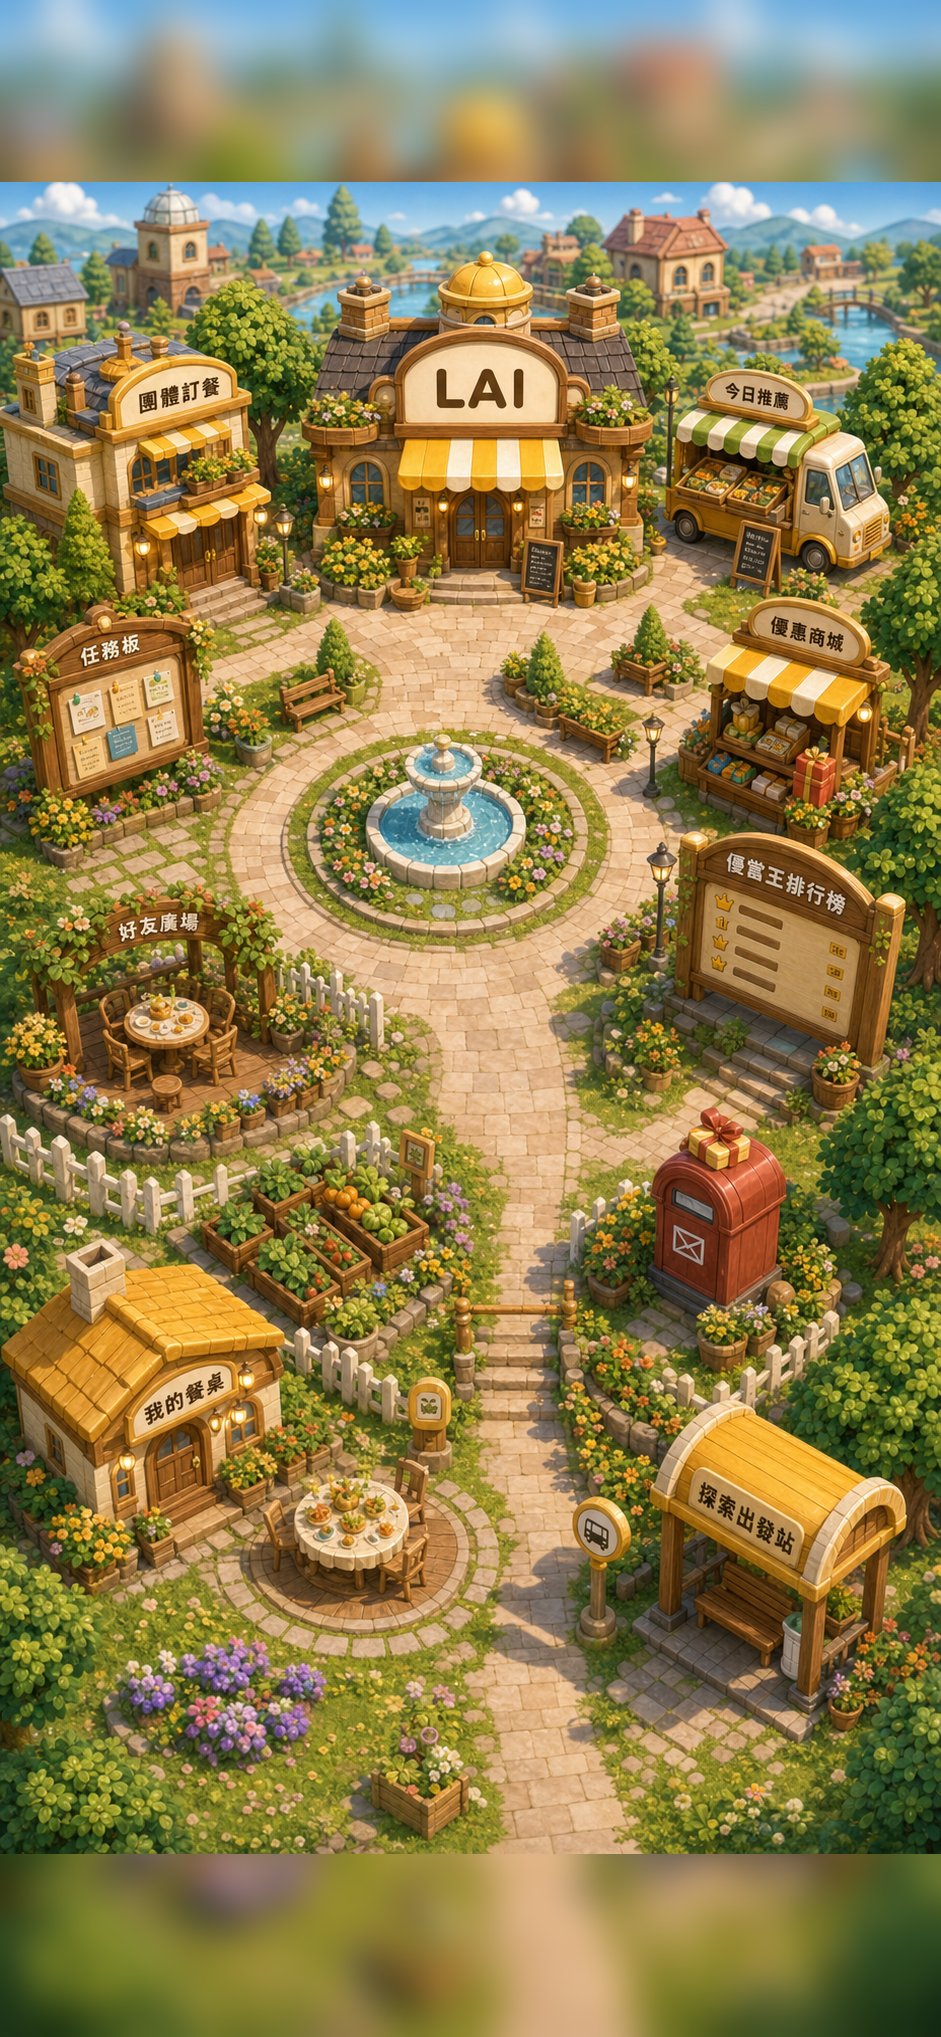
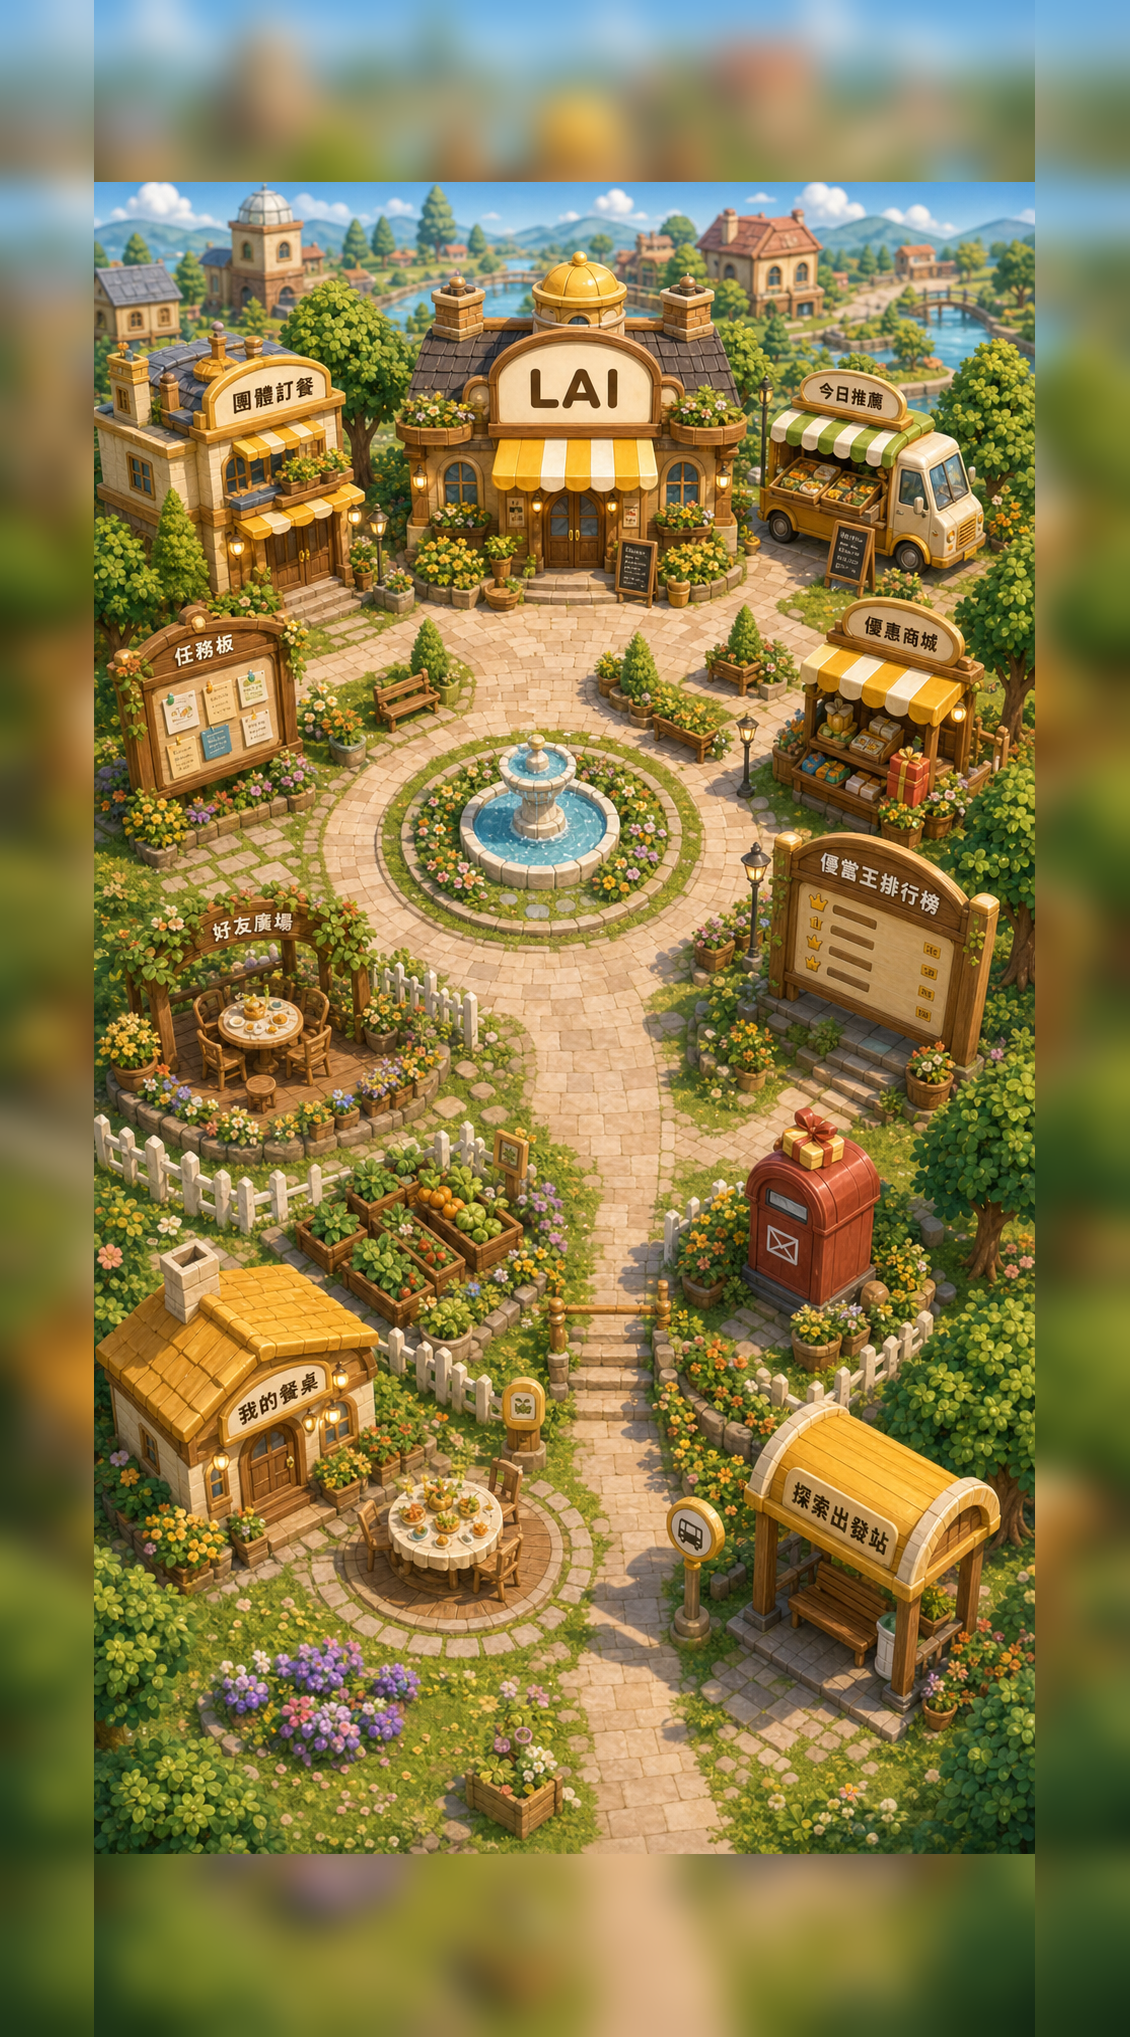
Fill mobile viewport with widened town map

diff --git a/website/life-phaser-game.js b/website/life-phaser-game.js
@@ -9,7 +9,7 @@
     const openModal = options.openModal;
     const updateHint = options.updateHint;
     const toast = options.toast;
-    const world = { width: 941, height: 2037 };
+    const world = { width: 1130, height: 2037 };
 
     class LaiTownScene extends Phaser.Scene {
       constructor() {
@@ -56,7 +56,7 @@
         const isTablet = width <= 1100;
         const fullMapZoom = Math.min(width / world.width, height / world.height);
         const coverZoom = Math.max(width / world.width, height / world.height) * 1.02;
-        const zoom = isPortraitPhone ? fullMapZoom : isTablet ? Math.max(coverZoom, 0.46) : 0.72;
+        const zoom = isPortraitPhone ? coverZoom : isTablet ? Math.max(coverZoom, 0.46) : 0.72;
         this.cameras.main.setZoom(zoom);
         this.cameras.main.setLerp(isPortraitPhone ? 0.08 : 0.12, isPortraitPhone ? 0.08 : 0.12);
         this.cameras.main.centerOn(this.player.x, this.player.y);
@@ -66,17 +66,17 @@
         const bg = this.add.image(world.width / 2, world.height / 2, "townBg");
         bg.setDisplaySize(world.width, world.height).setAlpha(1);
 
-        this.addZoneObstacle(392, 880, 160, 118, "噴水池", 0x78b7c7, "circle");
-        this.addBuilding(310, 365, 320, 210, "LAI 便當", 0xfff3d6, 0xffc84f);
-        this.addBuilding(690, 360, 180, 150, "便當餐車", 0xfff8da, 0x7fb86f);
-        this.addBuilding(260, 1240, 220, 210, "小菜園", 0xf3e2bd, 0x7fb86f);
-        this.addBuilding(26, 650, 170, 170, "任務看板", 0xfff8da, 0xb87945);
-        this.addBuilding(680, 910, 220, 205, "排行榜", 0xfff8da, 0xffc84f);
-        this.addBuilding(685, 1218, 130, 160, "禮物郵箱", 0xf06a55, 0xffc84f);
-        this.addBuilding(690, 690, 190, 160, "商城攤位", 0xfff8da, 0xb87945);
-        this.addBuilding(60, 1420, 220, 210, "我的餐桌", 0xfff8da, 0x8b6f3c);
-        this.addBuilding(70, 330, 230, 210, "企業團購", 0xe8eef6, 0x7fb86f);
-        this.addBuilding(650, 1550, 230, 210, "巴士站", 0xf7d37c, 0x64a6df);
+        this.addZoneObstacle(486.5, 880, 160, 118, "噴水池", 0x78b7c7, "circle");
+        this.addBuilding(404.5, 365, 320, 210, "LAI 便當", 0xfff3d6, 0xffc84f);
+        this.addBuilding(784.5, 360, 180, 150, "便當餐車", 0xfff8da, 0x7fb86f);
+        this.addBuilding(354.5, 1240, 220, 210, "小菜園", 0xf3e2bd, 0x7fb86f);
+        this.addBuilding(120.5, 650, 170, 170, "任務看板", 0xfff8da, 0xb87945);
+        this.addBuilding(774.5, 910, 220, 205, "排行榜", 0xfff8da, 0xffc84f);
+        this.addBuilding(779.5, 1218, 130, 160, "禮物郵箱", 0xf06a55, 0xffc84f);
+        this.addBuilding(784.5, 690, 190, 160, "商城攤位", 0xfff8da, 0xb87945);
+        this.addBuilding(154.5, 1420, 220, 210, "我的餐桌", 0xfff8da, 0x8b6f3c);
+        this.addBuilding(164.5, 330, 230, 210, "企業團購", 0xe8eef6, 0x7fb86f);
+        this.addBuilding(744.5, 1550, 230, 210, "巴士站", 0xf7d37c, 0x64a6df);
       }
 
       addBuilding(x, y, w, h, label, bodyColor, roofColor) {
@@ -100,7 +100,7 @@
       }
 
       createPlayer() {
-        const container = this.add.container(470, 1050);
+        const container = this.add.container(564.5, 1050);
         const shadow = this.add.ellipse(0, 10, 58, 18, 0x2a461f, 0.22);
         const sprite = this.add.image(0, 14, "characters", 0).setOrigin(0.5, 1);
         sprite.displayHeight = 148;
@@ -113,12 +113,12 @@
 
       createNpcs() {
         [
-          ["店長阿萊", 420, 620, 0xf3a65d, "今天推薦雞腿排健康餐。", "orders"],
-          ["菜園小幫手", 340, 1470, 0x7fb86f, "番茄和高麗菜快成熟了。", "garden"],
-          ["好友小鎮民", 175, 1120, 0xf0c16d, "要互送禮物嗎？", "friends"],
-          ["活動主持人", 420, 930, 0xa7d9d0, "新活動正在中央廣場。", "events"],
-          ["商城老闆", 760, 860, 0xb87945, "今天優惠券補貨。", "shop"],
-          ["外送員", 770, 610, 0x64a6df, "訂單正在配送中。", "orders"]
+          ["店長阿萊", 514.5, 620, 0xf3a65d, "今天推薦雞腿排健康餐。", "orders"],
+          ["菜園小幫手", 434.5, 1470, 0x7fb86f, "番茄和高麗菜快成熟了。", "garden"],
+          ["好友小鎮民", 269.5, 1120, 0xf0c16d, "要互送禮物嗎？", "friends"],
+          ["活動主持人", 514.5, 930, 0xa7d9d0, "新活動正在中央廣場。", "events"],
+          ["商城老闆", 854.5, 860, 0xb87945, "今天優惠券補貨。", "shop"],
+          ["外送員", 864.5, 610, 0x64a6df, "訂單正在配送中。", "orders"]
         ].forEach(([name, x, y, color, line, open], index) => {
           const npc = this.add.container(x, y);
           npc.add(this.add.ellipse(0, 14, 48, 15, 0x2a461f, 0.18));
@@ -126,7 +126,7 @@
           sprite.displayHeight = 124;
           sprite.scaleX = sprite.scaleY;
           npc.add(sprite);
-          npc.add(this.add.text(0, -51, name, { fontFamily: "Noto Sans TC", fontSize: "17px", fontStyle: "900", color: "#47341d", backgroundColor: "#fff8da", padding: { x: 8, y: 4 } }).setOrigin(0.5));
+          npc.add(this.add.text(0, -51, name, { fontFamily: "Noto Sans TC", fontSize: "17px", fontStyle: "900", color: "#47341d", backgroundColor: "#fff8da", padding: { x: 102.5, y: 4 } }).setOrigin(0.5));
           npc.interaction = { id: `npc-${index}`, title: name, text: line, button: "互動", open };
           npc.setSize(58, 72).setInteractive();
           npc.on("pointerdown", () => {
@@ -140,17 +140,17 @@
 
       createInteractions() {
         this.interactions = [
-          { id: "shop", x: 470, y: 610, radius: 78, title: "LAI\u4fbf\u7576\u5e97", text: "\u9032\u5165\u8a02\u8cfc\u8207\u4eca\u65e5\u9910\u76d2\u3002", button: "\u8a02\u4fbf\u7576", open: "orders" },
-          { id: "truck", x: 770, y: 620, radius: 68, title: "\u4fbf\u7576\u9910\u8eca", text: "\u67e5\u770b\u4eca\u65e5\u63a8\u85a6\u9910\u76d2\u3002", button: "\u4eca\u65e5\u63a8\u85a6", open: "todayRecommendation" },
-          { id: "task", x: 110, y: 790, radius: 66, title: "\u4efb\u52d9\u677f", text: "\u67e5\u770b\u6bcf\u65e5\u4efb\u52d9\u8207\u734e\u52f5\u3002", button: "\u4efb\u52d9\u4e2d\u5fc3", open: "tasks" },
-          { id: "rank", x: 770, y: 1070, radius: 72, title: "\u6392\u884c\u699c", text: "\u67e5\u770b\u4fbf\u7576\u738b\u8207\u597d\u53cb\u6392\u884c\u3002", button: "\u6392\u884c\u699c", open: "rankings" },
-          { id: "garden", x: 345, y: 1390, radius: 78, title: "\u5c0f\u83dc\u5712", text: "\u6536\u6210\u98df\u6750\u4e26\u7d2f\u7a4d\u98df\u6750\u9ede\u6578\u3002", button: "\u9032\u5165\u83dc\u5712", open: "garden" },
-          { id: "friends", x: 175, y: 1120, radius: 68, title: "\u597d\u53cb\u5ee3\u5834", text: "\u627e\u597d\u53cb\u3001\u6253\u62db\u547c\u8207\u9001\u79ae\u3002", button: "\u597d\u53cb", open: "friends" },
-          { id: "mail", x: 745, y: 1325, radius: 70, title: "\u79ae\u7269\u90f5\u7bb1", text: "\u67e5\u770b\u6536\u5230\u8207\u9001\u51fa\u7684\u79ae\u7269\u3002", button: "\u79ae\u7269", open: "gifts" },
-          { id: "shopStand", x: 775, y: 820, radius: 72, title: "\u512a\u60e0\u5546\u57ce", text: "\u514c\u63db\u512a\u60e0\u5238\u3001\u52a0\u83dc\u5238\u8207\u88dd\u98fe\u54c1\u3002", button: "\u5546\u57ce", open: "shop" },
-          { id: "table", x: 170, y: 1530, radius: 76, title: "\u6211\u7684\u9910\u684c", text: "\u4f48\u7f6e\u500b\u4eba\u9910\u684c\u7a7a\u9593\u3002", button: "\u6211\u7684\u9910\u684c", open: "table" },
-          { id: "group", x: 180, y: 500, radius: 76, title: "\u4f01\u696d\u5718\u8cfc", text: "\u67e5\u770b\u516c\u53f8\u8207\u5718\u9ad4\u8a02\u9910\u3002", button: "\u4f01\u696d\u8a02\u9910", open: "groupOrder" },
-          { id: "bus", x: 760, y: 1650, radius: 76, title: "\u63a2\u7d22\u51fa\u767c\u7ad9", text: "\u51fa\u9580\u901b\u901b\u9644\u8fd1\u6d3b\u52d5\u8207\u751f\u6d3b\u5708\u3002", button: "\u51fa\u9580\u901b\u901b", open: "explore" }
+          { id: "shop", x: 564.5, y: 610, radius: 78, title: "LAI\u4fbf\u7576\u5e97", text: "\u9032\u5165\u8a02\u8cfc\u8207\u4eca\u65e5\u9910\u76d2\u3002", button: "\u8a02\u4fbf\u7576", open: "orders" },
+          { id: "truck", x: 864.5, y: 620, radius: 68, title: "\u4fbf\u7576\u9910\u8eca", text: "\u67e5\u770b\u4eca\u65e5\u63a8\u85a6\u9910\u76d2\u3002", button: "\u4eca\u65e5\u63a8\u85a6", open: "todayRecommendation" },
+          { id: "task", x: 204.5, y: 790, radius: 66, title: "\u4efb\u52d9\u677f", text: "\u67e5\u770b\u6bcf\u65e5\u4efb\u52d9\u8207\u734e\u52f5\u3002", button: "\u4efb\u52d9\u4e2d\u5fc3", open: "tasks" },
+          { id: "rank", x: 864.5, y: 1070, radius: 72, title: "\u6392\u884c\u699c", text: "\u67e5\u770b\u4fbf\u7576\u738b\u8207\u597d\u53cb\u6392\u884c\u3002", button: "\u6392\u884c\u699c", open: "rankings" },
+          { id: "garden", x: 439.5, y: 1390, radius: 78, title: "\u5c0f\u83dc\u5712", text: "\u6536\u6210\u98df\u6750\u4e26\u7d2f\u7a4d\u98df\u6750\u9ede\u6578\u3002", button: "\u9032\u5165\u83dc\u5712", open: "garden" },
+          { id: "friends", x: 269.5, y: 1120, radius: 68, title: "\u597d\u53cb\u5ee3\u5834", text: "\u627e\u597d\u53cb\u3001\u6253\u62db\u547c\u8207\u9001\u79ae\u3002", button: "\u597d\u53cb", open: "friends" },
+          { id: "mail", x: 839.5, y: 1325, radius: 70, title: "\u79ae\u7269\u90f5\u7bb1", text: "\u67e5\u770b\u6536\u5230\u8207\u9001\u51fa\u7684\u79ae\u7269\u3002", button: "\u79ae\u7269", open: "gifts" },
+          { id: "shopStand", x: 869.5, y: 820, radius: 72, title: "\u512a\u60e0\u5546\u57ce", text: "\u514c\u63db\u512a\u60e0\u5238\u3001\u52a0\u83dc\u5238\u8207\u88dd\u98fe\u54c1\u3002", button: "\u5546\u57ce", open: "shop" },
+          { id: "table", x: 264.5, y: 1530, radius: 76, title: "\u6211\u7684\u9910\u684c", text: "\u4f48\u7f6e\u500b\u4eba\u9910\u684c\u7a7a\u9593\u3002", button: "\u6211\u7684\u9910\u684c", open: "table" },
+          { id: "group", x: 274.5, y: 500, radius: 76, title: "\u4f01\u696d\u5718\u8cfc", text: "\u67e5\u770b\u516c\u53f8\u8207\u5718\u9ad4\u8a02\u9910\u3002", button: "\u4f01\u696d\u8a02\u9910", open: "groupOrder" },
+          { id: "bus", x: 854.5, y: 1650, radius: 76, title: "\u63a2\u7d22\u51fa\u767c\u7ad9", text: "\u51fa\u9580\u901b\u901b\u9644\u8fd1\u6d3b\u52d5\u8207\u751f\u6d3b\u5708\u3002", button: "\u51fa\u9580\u901b\u901b", open: "explore" }
         ];
       }
 